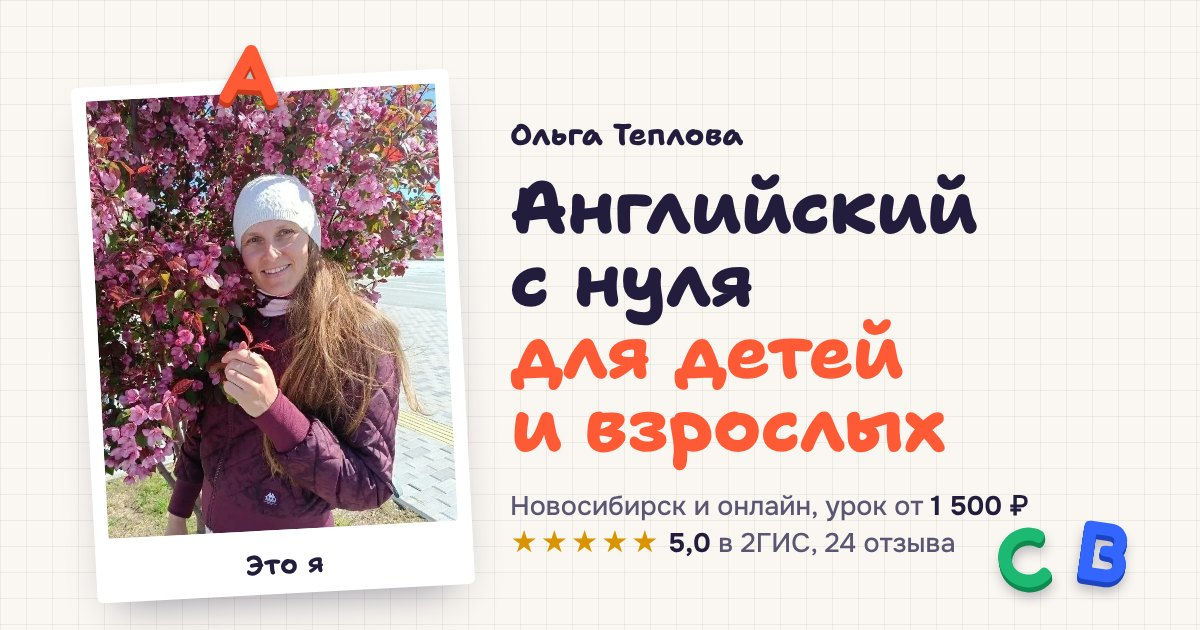
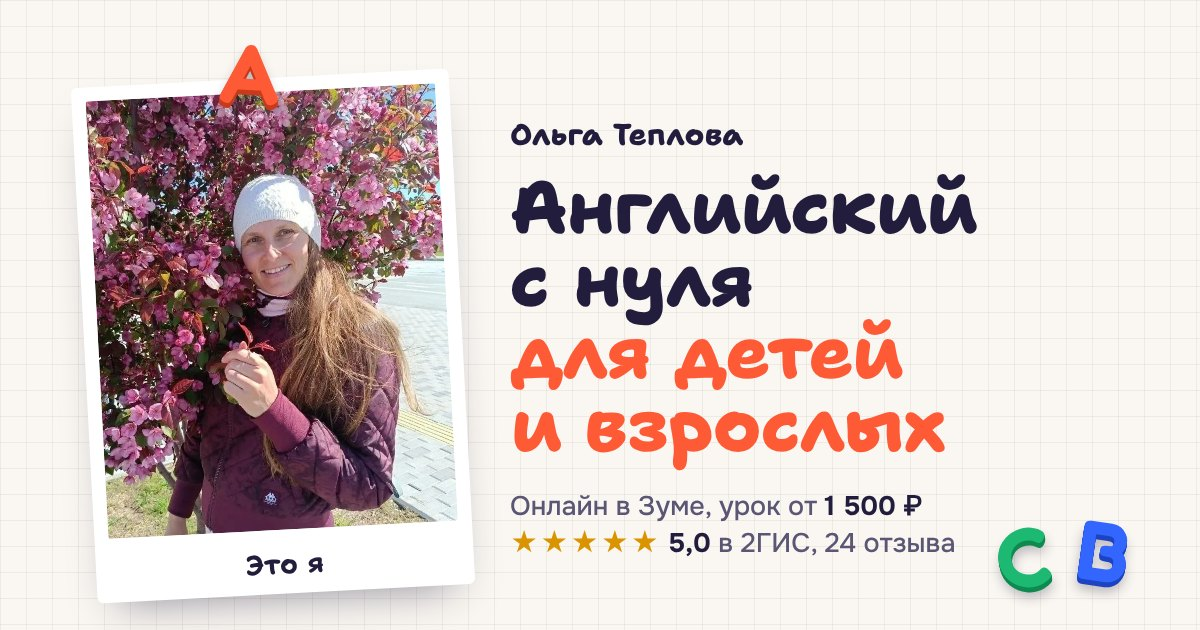
Сайт Ольги: 4 свободных места, занятия в Зуме, звук букв без задержки (#93)

Changed region(s): [[0.4317, 0.7841, 0.8633, 0.8444]]

diff --git a/olga-english/index.html b/olga-english/index.html
@@ -7,12 +7,12 @@
 <meta name="theme-color" content="#FAF7F2">
 <script>document.documentElement.classList.add('js')</script>
 <title>Репетитор английского в Новосибирске и онлайн, Ольга Теплова</title>
-<meta name="description" content="Английский с нуля для детей и взрослых. Кабинет на Немировича‑Данченко или онлайн в Зуме. Урок от 1 500 ₽, рейтинг 5,0 в 2ГИС.">
+<meta name="description" content="Английский с нуля для детей и взрослых. Занятия онлайн в Зуме из любого города. Урок от 1 500 ₽, рейтинг 5,0 в 2ГИС.">
 <meta property="og:type" content="website">
 <meta property="og:locale" content="ru_RU">
 <meta property="og:url" content="https://www.studio-sait.ru/olga-english/">
 <meta property="og:title" content="Ольга Теплова, английский для детей и взрослых">
-<meta property="og:description" content="Английский с нуля в кабинете в Новосибирске или онлайн. Урок от 1 500 ₽, рейтинг 5,0 в 2ГИС.">
+<meta property="og:description" content="Английский с нуля онлайн в Зуме. Урок от 1 500 ₽, рейтинг 5,0 в 2ГИС.">
 <meta property="og:image" content="https://www.studio-sait.ru/olga-english/og.jpg">
 <meta property="og:image:width" content="1200">
 <meta property="og:image:height" content="630">
@@ -320,7 +320,7 @@ body { background-color: #FAF7F2; background-image: linear-gradient(rgba(80, 60,
     <h1 data-solid>Английский с&nbsp;нуля <span class="l2">для детей и&nbsp;взрослых</span></h1>
     <p class="lead" data-solid>Начинаем говорить с&nbsp;первого урока. Взрослых довожу до&nbsp;уровня Intermediate, детям помогаю справляться с&nbsp;английским в&nbsp;школе.</p>
     <div class="cta"><a class="btn main" href="#contact" data-solid>Записаться на&nbsp;пробное</a><a class="btn" href="#about" data-solid>Обо мне</a></div>
-    <p class="meta" data-solid><span class="stars" aria-hidden="true">★★★★★</span> <b>5,0</b> в&nbsp;2ГИС, 24&nbsp;отзыва<br>Урок от&nbsp;<b>1&nbsp;500&nbsp;₽</b>, в&nbsp;кабинете в&nbsp;Новосибирске или онлайн</p>
+    <p class="meta" data-solid><span class="stars" aria-hidden="true">★★★★★</span> <b>5,0</b> в&nbsp;2ГИС, 24&nbsp;отзыва<br>Урок от&nbsp;<b>1&nbsp;500&nbsp;₽</b>, онлайн в&nbsp;Зуме</p>
     <div class="game"><button class="snd" type="button" aria-pressed="true" data-solid><svg width="22" height="22" viewBox="0 0 24 24" aria-hidden="true"><path d="M4 9.5h3.5L12 5.5v13l-4.5-4H4z" fill="#FFC12E" stroke="#221D3D" stroke-width="2" stroke-linejoin="round"/><path class="on" d="M15.5 9c1.2 1.6 1.2 4.4 0 6M18 6.5c2.6 3 2.6 8 0 11" fill="none" stroke="#221D3D" stroke-width="2" stroke-linecap="round"/><path class="off" d="M15.5 9.5l5 5M20.5 9.5l-5 5" fill="none" stroke="#221D3D" stroke-width="2" stroke-linecap="round"/></svg><span class="on">Звук</span><span class="off">Без звука</span></button><span class="score" hidden data-solid>Собрано слов: <b>0</b> из <i>0</i></span><span class="tip">Нажми на&nbsp;букву, она&nbsp;заговорит<svg width="30" height="34" viewBox="0 0 30 34" aria-hidden="true"><path d="M4 3 C 6 16, 12 24, 22 29 M14 29 L23 30 L20 21" fill="none" stroke="#5B5674" stroke-width="2.5" stroke-linecap="round" stroke-linejoin="round" /></svg></span></div>
   </div>
   <p class="hint">Нажми на&nbsp;букву, она заговорит
@@ -379,7 +379,7 @@ body { background-color: #FAF7F2; background-image: linear-gradient(rgba(80, 60,
       </div>
       <div class="stop">
         <div class="tile rv"><svg width="54" height="54" viewBox="0 0 54 54" aria-hidden="true"><rect x="7" y="11" width="40" height="36" rx="6" fill="#FFFBF3" stroke="#221D3D" stroke-width="3" /><path d="M7 21 H47 M17 6 V15 M37 6 V15" stroke="#221D3D" stroke-width="3" stroke-linecap="round" /><path d="M27 42 C 18 36, 18 28, 23 28 C 25 28, 27 30, 27 32 C 27 30, 29 28, 31 28 C 36 28, 36 36, 27 42 Z" fill="#FF5A36" stroke="#221D3D" stroke-width="2" stroke-linejoin="round" /></svg></div>
-        <div><h3>Постоянное расписание</h3><p>2 или 3 раза в&nbsp;неделю в&nbsp;одни и&nbsp;те&nbsp;же дни. Занятие 60 или 90&nbsp;минут, в&nbsp;кабинете или в&nbsp;Зуме.</p></div>
+        <div><h3>Постоянное расписание</h3><p>2 или 3 раза в&nbsp;неделю в&nbsp;одни и&nbsp;те&nbsp;же дни. Занятие 60 или 90&nbsp;минут в&nbsp;Зуме.</p></div>
       </div>
     </div>
   </div>
@@ -397,12 +397,12 @@ body { background-color: #FAF7F2; background-image: linear-gradient(rgba(80, 60,
       <div class="desks rv" aria-hidden="true">
         <figure><svg viewBox="0 0 60 70"><circle cx="30" cy="20" r="12" fill="#FFD9B8" stroke="#221D3D" stroke-width="2.5" /><path d="M18 18 C 18 6, 42 6, 42 18 C 36 12, 24 12, 18 18 Z" fill="#8A5A3A" stroke="#221D3D" stroke-width="2" /><rect x="6" y="38" width="48" height="10" rx="3" fill="#FFC12E" stroke="#221D3D" stroke-width="2.5" /><path d="M12 48 V66 M48 48 V66" stroke="#221D3D" stroke-width="2.5" stroke-linecap="round" /></svg></figure>
         <figure><svg viewBox="0 0 60 70"><circle cx="30" cy="20" r="12" fill="#F2C7A0" stroke="#221D3D" stroke-width="2.5" /><path d="M17 20 C 14 4, 46 4, 43 20 C 40 10, 20 10, 17 20 Z M17 20 C 14 26, 14 30, 18 32 M43 20 C 46 26, 46 30, 42 32" fill="#F2B134" stroke="#221D3D" stroke-width="2" /><rect x="6" y="38" width="48" height="10" rx="3" fill="#FFC12E" stroke="#221D3D" stroke-width="2.5" /><path d="M12 48 V66 M48 48 V66" stroke="#221D3D" stroke-width="2.5" stroke-linecap="round" /></svg></figure>
-        <figure><svg viewBox="0 0 60 70"><circle cx="30" cy="20" r="12" fill="#C98E62" stroke="#221D3D" stroke-width="2.5" /><path d="M18 16 C 20 6, 40 6, 42 16 C 36 11, 24 11, 18 16 Z" fill="#221D3D" /><rect x="6" y="38" width="48" height="10" rx="3" fill="#FFC12E" stroke="#221D3D" stroke-width="2.5" /><path d="M12 48 V66 M48 48 V66" stroke="#221D3D" stroke-width="2.5" stroke-linecap="round" /></svg></figure>
-        <figure><svg viewBox="0 0 60 70"><circle cx="30" cy="20" r="12" fill="#FFD9B8" stroke="#221D3D" stroke-width="2.5" /><path d="M18 18 C 18 6, 42 6, 42 18 C 36 12, 24 12, 18 18 Z" fill="#D9541E" stroke="#221D3D" stroke-width="2" /><circle cx="44" cy="12" r="4" fill="#FF78AE" stroke="#221D3D" stroke-width="2" /><rect x="6" y="38" width="48" height="10" rx="3" fill="#FFC12E" stroke="#221D3D" stroke-width="2.5" /><path d="M12 48 V66 M48 48 V66" stroke="#221D3D" stroke-width="2.5" stroke-linecap="round" /></svg></figure>
+        <figure><svg viewBox="0 0 60 70"><circle cx="30" cy="20" r="12" fill="none" stroke="#1DB972" stroke-width="2.5" stroke-dasharray="4 4" /><rect x="6" y="38" width="48" height="10" rx="3" fill="#FFFBF3" stroke="#221D3D" stroke-width="2.5" /><path d="M12 48 V66 M48 48 V66" stroke="#221D3D" stroke-width="2.5" stroke-linecap="round" /></svg></figure>
+        <figure><svg viewBox="0 0 60 70"><circle cx="30" cy="20" r="12" fill="none" stroke="#1DB972" stroke-width="2.5" stroke-dasharray="4 4" /><rect x="6" y="38" width="48" height="10" rx="3" fill="#FFFBF3" stroke="#221D3D" stroke-width="2.5" /><path d="M12 48 V66 M48 48 V66" stroke="#221D3D" stroke-width="2.5" stroke-linecap="round" /></svg></figure>
         <figure><svg viewBox="0 0 60 70"><circle cx="30" cy="20" r="12" fill="none" stroke="#1DB972" stroke-width="2.5" stroke-dasharray="4 4" /><rect x="6" y="38" width="48" height="10" rx="3" fill="#FFFBF3" stroke="#221D3D" stroke-width="2.5" /><path d="M12 48 V66 M48 48 V66" stroke="#221D3D" stroke-width="2.5" stroke-linecap="round" /></svg></figure>
         <figure><svg viewBox="0 0 60 70"><circle cx="30" cy="20" r="12" fill="none" stroke="#1DB972" stroke-width="2.5" stroke-dasharray="4 4" /><rect x="6" y="38" width="48" height="10" rx="3" fill="#FFFBF3" stroke="#221D3D" stroke-width="2.5" /><path d="M12 48 V66 M48 48 V66" stroke="#221D3D" stroke-width="2.5" stroke-linecap="round" /></svg></figure>
       </div>
-      <p class="seats">Беру до&nbsp;6 учеников, сейчас свободно 2&nbsp;места</p>
+      <p class="seats">Беру до&nbsp;6 учеников, сейчас свободно 4&nbsp;места</p>
       <a class="btn main" href="#contact">Занять место</a>
       <p class="legal">Работаю как ИП, поэтому можно оплатить от&nbsp;юрлица по&nbsp;договору с&nbsp;актами.</p>
     </div>
@@ -456,9 +456,9 @@ body { background-color: #FAF7F2; background-image: linear-gradient(rgba(80, 60,
         <div class="note" hidden style="--c:#FF5A36;--d:#C93A1B"><span class="mag" aria-hidden="true">S</span><p class="txt">Ольга , спасибо Вам за&nbsp;уроки!!! Мне всегда сложно давались языки, а&nbsp;с Вами было всё как то легко и&nbsp;интересно ! И всё получалось ! Теперь могу даже разговаривать на&nbsp;английском !!! Ещё раз Спасибо 🙏 ❤</p><p class="who">Елена Б.<span>август 2020</span></p></div>
         <div class="note" hidden style="--c:#3366FF;--d:#1D44C2"><span class="mag" aria-hidden="true">T</span><p class="txt">Доступно, с&nbsp;пользой, не&nbsp;дорого!!! Планирую продолжить занятия с&nbsp;Ольгой. За последние два месяца стала говорить и&nbsp;не бояться. Раньше могла только писать. Прогресс на&nbsp;лицо!))</p><p class="who">Валерия Л.<span>август 2020</span></p></div>
         <div class="note" hidden style="--c:#1DB972;--d:#0F8A51"><span class="mag" aria-hidden="true">U</span><p class="txt">Очень компетентный педагог со&nbsp;знанием своего дела, интересный подход, и&nbsp;просто приятный человек.</p><p class="who">Александра М.<span>август 2020</span></p></div>
-        <div class="note" hidden style="--c:#FFC12E;--d:#D99400"><span class="mag" aria-hidden="true">V</span><p class="txt">Хороший опытный преподаватель! Рядом с&nbsp;домом. Рекомендую.</p><p class="who">V М.<span>декабрь 2020</span></p></div>
+        <div class="note" hidden style="--c:#FFC12E;--d:#D99400"><span class="mag" aria-hidden="true">V</span><p class="txt">Хороший опытный преподаватель! Рядом с&nbsp;домом. Рекомендую.</p><p class="who">Владимир М.<span>декабрь 2020</span></p></div>
         <div class="note" hidden style="--c:#FF78AE;--d:#D24F86"><span class="mag" aria-hidden="true">W</span><p class="txt">Репетитор очень хороший добрый позитивный, всегда объяснит что и&nbsp;когда! Я советую с&nbsp;ним позаниматься 👍✨😉</p><p class="who">Илья С.<span>апрель 2022</span></p></div>
-        <div class="note" hidden style="--c:#8D63FF;--d:#6338D9"><span class="mag" aria-hidden="true">X</span><p class="txt clip">Очень легко и&nbsp;интересно заниматься. Желание изучать язык растёт после каждого занятия. Прогресс просто удивляет, недавно я говорил &quot;лангуаге&quot; сейчас понимаю некоторые фразы в&nbsp;песнях или видео на&nbsp;английском, причём не&nbsp;напрягая память, а&nbsp;с ходу, сам того не&nbsp;замечая. В общем рекомендую!</p><button class="more" type="button">Читать полностью</button><p class="who">mr.BIGGIE L.<span>ноябрь 2020</span></p></div>
+        <div class="note" hidden style="--c:#8D63FF;--d:#6338D9"><span class="mag" aria-hidden="true">X</span><p class="txt clip">Очень легко и&nbsp;интересно заниматься. Желание изучать язык растёт после каждого занятия. Прогресс просто удивляет, недавно я говорил &quot;лангуаге&quot; сейчас понимаю некоторые фразы в&nbsp;песнях или видео на&nbsp;английском, причём не&nbsp;напрягая память, а&nbsp;с ходу, сам того не&nbsp;замечая. В общем рекомендую!</p><button class="more" type="button">Читать полностью</button><p class="who">Андрей Л.<span>ноябрь 2020</span></p></div>
       </div>
       <div class="notes-more"><button class="btn sm soft" type="button">Показать все 24 отзыва</button></div>
       <p class="snaps-t">Фото с&nbsp;занятий и&nbsp;из&nbsp;кабинета</p>
@@ -491,7 +491,7 @@ body { background-color: #FAF7F2; background-image: linear-gradient(rgba(80, 60,
       <div>
         <h2>Записаться на&nbsp;пробное занятие</h2>
         <p>Напишите, кто будет учиться и&nbsp;что сейчас получается с&nbsp;английским. Подберём удобное время.</p>
-        <p class="where"><b>Кабинет:</b> Новосибирск, ул.&nbsp;Немировича‑Данченко, 148/1, офис 318. Ежедневно с&nbsp;10:00 до&nbsp;20:00 по&nbsp;записи. <a href="https://2gis.ru/novosibirsk/firm/70000001041726732" target="_blank" rel="noopener">Как пройти</a>. Или онлайн по&nbsp;Зуму из&nbsp;любого города.</p>
+        <p class="where"><b>Занятия онлайн в&nbsp;Зуме</b>, из&nbsp;любого города, ежедневно с&nbsp;10:00 до&nbsp;20:00 по&nbsp;записи. Кабинет в&nbsp;Новосибирске: ул.&nbsp;Немировича‑Данченко, 148/1, офис 318, <a href="https://2gis.ru/novosibirsk/firm/70000001041726732" target="_blank" rel="noopener">как пройти</a>.</p>
       </div>
       <div class="msgs"><a class="btn tg" href="https://t.me/world_on" target="_blank" rel="noopener">Telegram</a><a class="btn wa" href="https://wa.me/79237888824" target="_blank" rel="noopener">WhatsApp</a><a class="btn vk" href="https://vk.com/id21353018" target="_blank" rel="noopener">ВКонтакте</a><p class="max">В&nbsp;MAX: <a href="tel:+79237888824">+7&nbsp;923&nbsp;788‑88‑24</a></p></div>
       <div class="hl" aria-label="Hello"><button type="button" style="--c:#FF5A36;--d:#C93A1B">H</button><button type="button" style="--c:#FFC12E;--d:#D99400">E</button><button type="button" style="--c:#1DB972;--d:#0F8A51">L</button><button type="button" style="--c:#FF78AE;--d:#D24F86">L</button><button type="button" style="--c:#FFFBF3;--d:#B9B2D6">O</button></div>

diff --git a/olga-english/toys.js b/olga-english/toys.js
@@ -23,7 +23,8 @@
   function paintSnd() { if (sndBtn) sndBtn.setAttribute('aria-pressed', soundOn ? 'true' : 'false'); }
   paintSnd();
 
-  var au = null, voiceOk = true, queue = [], cur = '';
+  // записанного голоса пока нет: сразу говорит браузер, без лишнего запроса и задержки
+  var au = null, voiceOk = false, queue = [], cur = '';
   var enVoice = null, ruVoice = null;
   function pickVoices() {
     if (!('speechSynthesis' in window)) return;
